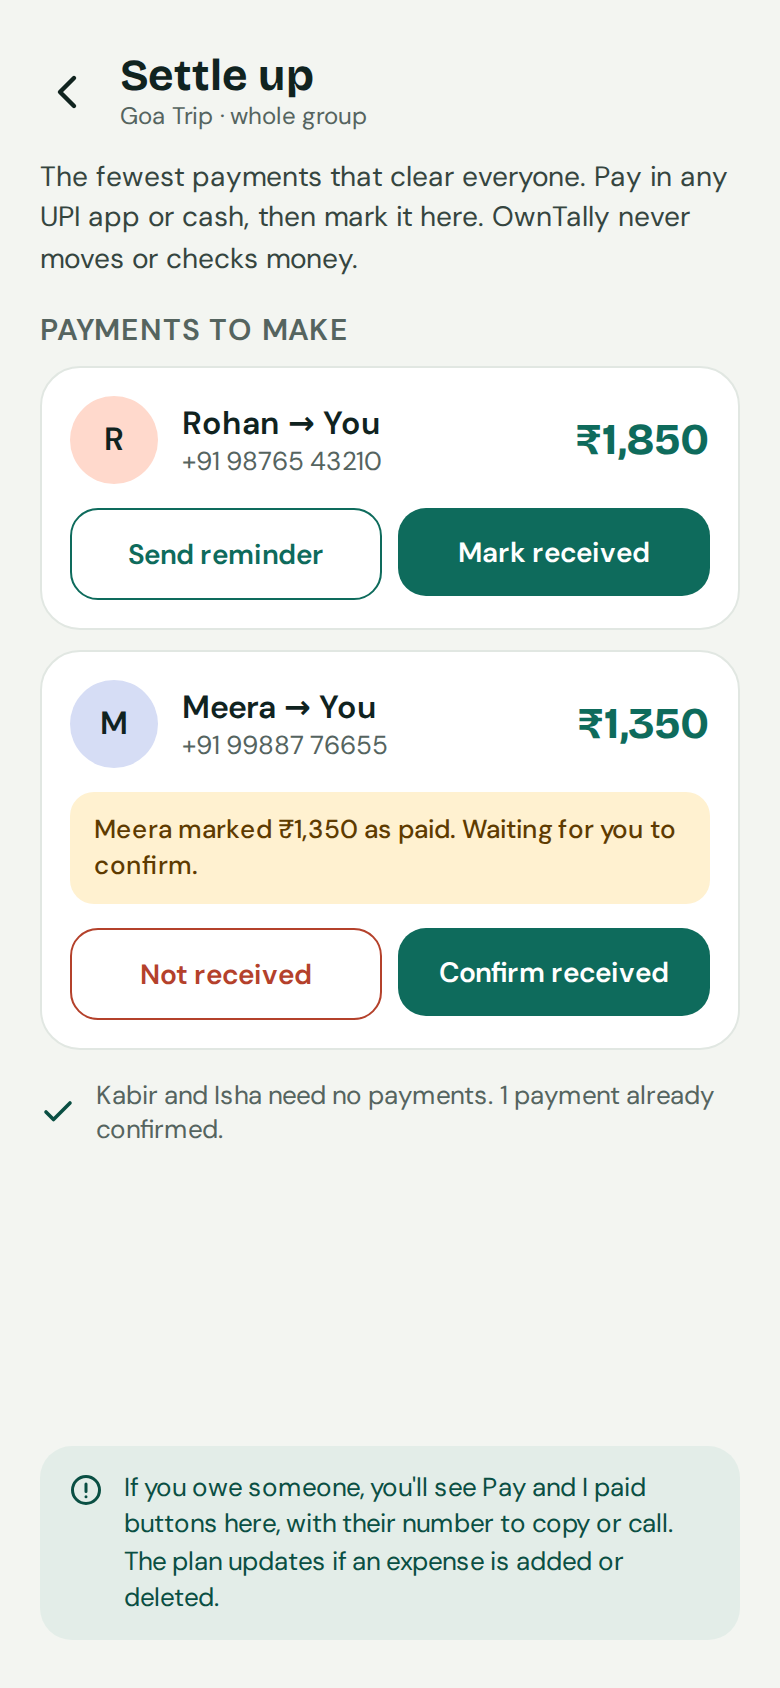
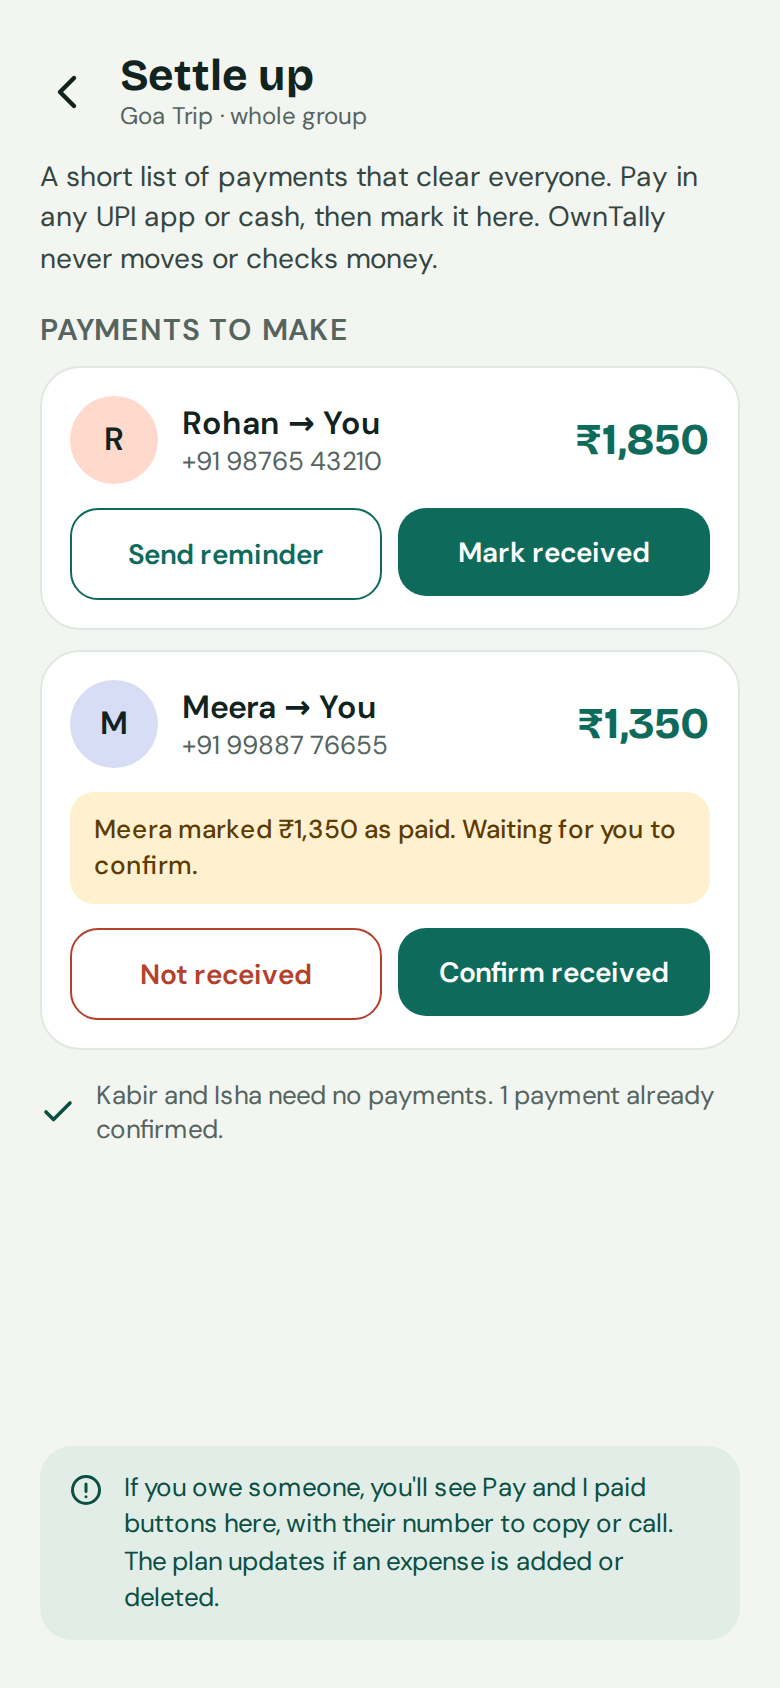
Record decisions: simple settlement plan, no admin takeover in v1, Go relay

Changed region(s): [[0.0615, 0.0924, 0.9231, 0.1848]]

diff --git a/docs/DESIGN.md b/docs/DESIGN.md
@@ -18,7 +18,9 @@ UI mockups: see the design/ folder (screens to be exported there).
 | Edit expenses? | Not allowed. To fix a mistake, delete and re-add. |
 | Delete expenses? | Creator, or an admin/owner. Entry stays in history, struck through, excluded from balances. Warn if it changes settled amounts. |
 | Remove members? | Owner or any admin. Removal records which of the member's entries were seen; newer ones are ignored. |
-| Transfer ownership? | Yes: owner signs `OwnershipTransferred`, new owner accepts. Owner can name co-admins, any of whom can remove members or transfer ownership, so a lost owner phone does not strand the group. |
+| Settlement plan | Simple matching: at most members minus 1 payments, not always the absolute minimum. |
+| WebSocket relay language | Go. |
+| Transfer ownership? | Yes: owner signs `OwnershipTransferred`, new owner accepts. Ownership moves only when the owner offers it and the new owner accepts. No admin takeover in v1. The owner can name co-admins, who can approve joins and remove members, so a group whose owner loses their phone can still run. |
 | Sign-up / identity | No global account. A master seed is created on first run. Each group gets its own keypair derived from the seed, so members of different groups cannot link you. Only a name and a phone number are collected, set per group on join. The phone adds up cross-group totals locally. One seed backup restores every group. |
 | Join approval | Admin approves or declines. No fingerprint check. Tickets: single use, 8 hours; an admin sends a new one if expired. |
 | Removal with unsettled balance | Allowed. Balances are rebalanced as if the removed member were never in the group; their entries and payments involving them stay in history but are excluded. Before-and-after shown to the admin, who must confirm. |
@@ -115,7 +117,7 @@ Limits:
 
 ## Profile and settling
 
-- Settling is at group level, not person level. Balances are per group; groups are never netted against each other (the home screen may show totals only). The app computes each member's net balance in the group and suggests the fewest payments that clear everyone, so a member may be asked to pay someone they never spent with. All phones compute the same plan from the same log.
+- Settling is at group level, not person level. Balances are per group; groups are never netted against each other (the home screen may show totals only). The app computes each member's net balance in the group and suggests a short list of payments that clear everyone (at most members minus 1, using a simple matching method that is not always the absolute minimum), so a member may be asked to pay someone they never spent with. All phones compute the same plan from the same log.
 - Payments are recorded one by one (no frozen "settlement round"). Each suggested payment is marked "I paid" and "Received" separately. The group is settled when all balances reach zero.
 - The plan updates when an expense is added or deleted. Payments already marked stay in the log and are counted.
 
@@ -213,7 +215,7 @@ Name, optional icon colour, currency (default INR). The creator becomes owner an
 - Owner opens Members, picks a person, chooses "Make owner". Sheet explains: you become an admin, they become owner. The target gets a request and must accept; until then nothing changes.
 - On acceptance, `OwnershipTransferred` is recorded (signed by the old owner, accepted by the new one). Offline phones converge on the next sync.
 - Make admin / remove admin: owner only. Admins can approve joins, remove members, delete any entry and edit the relay setting.
-- If the owner is unreachable, any admin can transfer ownership to another admin after a confirmation that explains the old owner loses ownership. This avoids a stranded group.
+- Admin takeover when the owner is unreachable is not in v1. If the owner loses their phone, co-admins keep the group running (approve joins, remove members, delete entries); the owner can restore their identity with the recovery phrase.
 
 ### Delete expense
 Creator or an admin. Shows "This changes balances" when the entry is part of settled amounts. The entry stays in the list as struck through with who deleted it and when.

diff --git a/docs/tasks/M1-core-domain.md b/docs/tasks/M1-core-domain.md
@@ -40,7 +40,7 @@ Event bodies (from DESIGN.md)
 - `MemberRemoved(member, lastSeenCounter)`: events by that member with a counter above `lastSeenCounter` are ignored.
 
 Authorization (checked at replay)
-- Only the owner adds or removes admins and offers ownership. The new owner must accept, and the offer must come from the current owner. Any admin may also transfer ownership to another admin when the owner has been unreachable (the owner role moves; model this as `OwnershipOffered` by an admin, allowed only if the app marks the owner unreachable; the unreachable flag is a UI input, so for the core, accept it as an event field `ownerUnreachable = true` and test both cases).
+- Only the owner adds or removes admins and offers ownership. The new owner must accept, and the offer must come from the current owner. Admin takeover when the owner is unreachable is not part of v1. Do not build it.
 - Any member adds expenses and settlements. Delete: the creator or any admin or the owner. Remove member: owner or any admin. The owner cannot be removed or leave while owner.
 - An event that fails authorization is kept in the log but has no effect.
 
@@ -53,7 +53,7 @@ Rounding
 - For `Equal`, divide in paise. The leftover paise (at most participants minus 1) go one each to participants in ascending public key order. Every device must get identical results.
 
 Settlement plan
-- Compute net balance per remaining member. Repeatedly match the member who is owed most with the member who owes most (ties broken by public key order), pay `min` of the two, until all are zero. This gives at most (members minus 1) payments. It is not always the absolute minimum; document this, and tell the owner, since DESIGN.md says "fewest payments".
+- Compute net balance per remaining member. Repeatedly match the member who is owed most with the member who owes most (ties broken by public key order), pay `min` of the two, until all are zero. This gives at most (members minus 1) payments. It is not always the absolute minimum. The owner has accepted this; document it in PROTOCOL.md.
 
 Encoding for signing (needed by M2)
 - Proposed: deterministic CBOR (RFC 8949 section 4.2). Library to be confirmed in M2.

diff --git a/docs/BUILD_PLAN.md b/docs/BUILD_PLAN.md
@@ -90,7 +90,7 @@ Done when: `docs/SPIKE_RESULTS.md` has the numbers and a recommendation, the own
 
 Step-by-step tasks: [tasks/M1-core-domain.md](tasks/M1-core-domain.md).
 
-Build and test: the event types in DESIGN.md, the log (append only, identified by device key and counter, merge is a union), replay to current state, balance calculation, equal and exact splits, the group-level settlement plan (fewest payments), deletion rules, and member removal with rebalancing (their expenses and payments excluded, shares re-split for equal splits). Write `docs/PROTOCOL.md` describing the event format and rules you chose, and have the owner approve it.
+Build and test: the event types in DESIGN.md, the log (append only, identified by device key and counter, merge is a union), replay to current state, balance calculation, equal and exact splits, the group-level settlement plan (simple matching, at most members minus 1 payments), deletion rules, and member removal with rebalancing (their expenses and payments excluded, shares re-split for equal splits). Write `docs/PROTOCOL.md` describing the event format and rules you chose, and have the owner approve it.
 
 Acceptance:
 - Replaying the same events in any order gives identical balances (property test).

diff --git a/docs/tasks/M0-spike.md b/docs/tasks/M0-spike.md
@@ -45,7 +45,7 @@ Done when: the interface compiles, and a fake in-memory implementation passes a 
 
 ## T0.3 WebSocket relay program
 
-Language: Go, as a single static binary, unless the owner says otherwise (one small file to deploy, low memory). Put it in `relay/ws-relay/`.
+Language: Go (decided by the owner), as a single static binary (one small file to deploy, low memory). Put it in `relay/ws-relay/`.
 
 Behaviour:
 - Listens for secure WebSocket connections at `/ws?room=<roomId>&id=<publicKeyHex>`.
